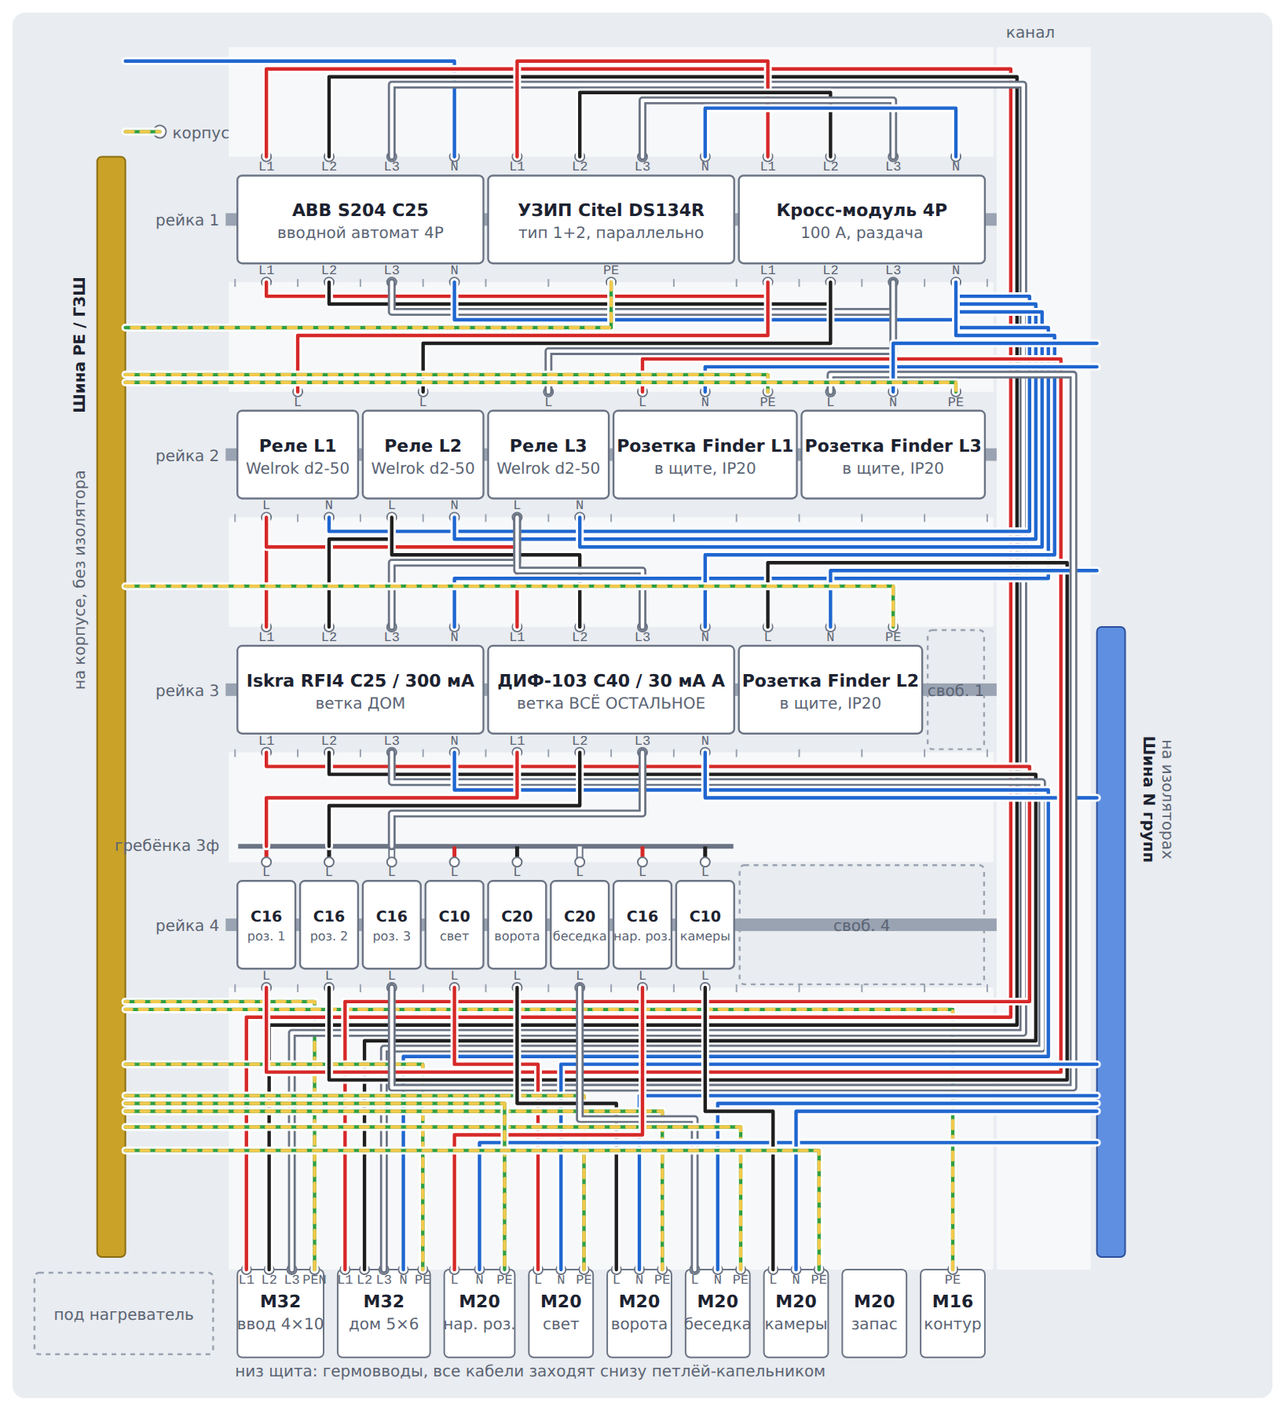
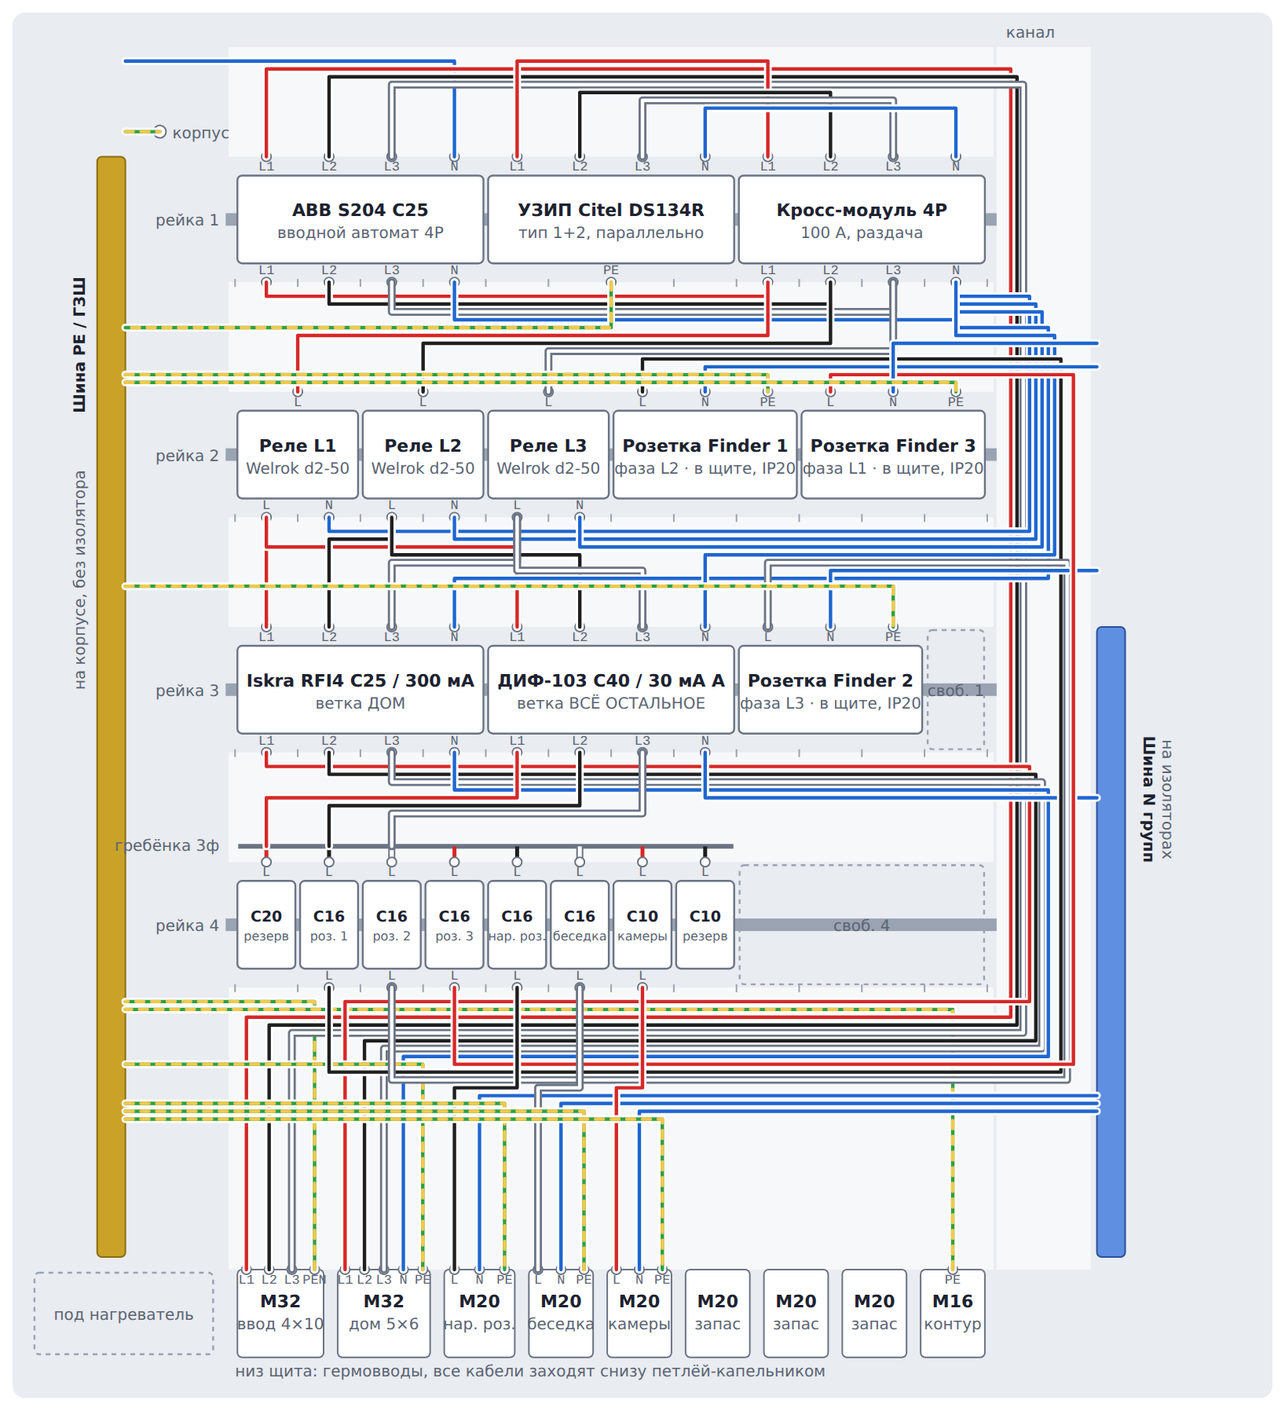
Щит: автоматы по убыванию номинала — C20 резерв, C16 ×5, C10 камеры + резерв; 57 проводов
Claude-Session: https://claude.ai/code/session_014vwwLy1XQxWdD3M4ixQCrA

diff --git a/07-schemas/electrics/panel-layout.html b/07-schemas/electrics/panel-layout.html
@@ -133,8 +133,8 @@
   <ol>
     <li><b>Раскладка по факту (примерка 05.10):</b> рейка 1 — S204, УЗИП, кросс-модуль (12 мод.); рейка 2 — три Welrok по 2 мод. и две Finder по 3 (12); рейка 3 — Iskra, ДИФ-103, Finder (11, 1 свободен); рейка 4 — 8 автоматов (4 свободно). Занято 43 из 48.</li>
     <li><b>Обогрев пока не ставится.</b> Термостат и нагреватель вынуты. Если вернёшь: нагреватель на раму внизу слева (место оставлено), термостат 1 мод. на свободное место рейки 3, его C10 — на рейку 4 после «камер» (тогда он сядет на L3 по гребёнке), гребёнку резать на 9 модулей вместо 8.</li>
-    <li><b>Розетки:</b> три Finder внутри щита, по одной на каждую фазу (на C16 ×3): две на рейке 2 рядом с реле, одна на рейке 3. Плюс влагозащищённая ЭРА IP65 снаружи на корпусе на своём C16. Пятый C16 и лишний кросс-модуль — запас.</li>
-    <li><b>Автоматы:</b> C16 ×4 на три Finder и наружную розетку, C20 ×2 на ворота и беседку, C10 ×2 на свет и камеры. Фаза каждого задана его местом на гребёнке (гребёнка обрезана на 8 модулей): L1 — роз. 1, свет, нар. розетка; L2 — роз. 2, ворота, камеры; L3 — роз. 3, беседка.</li>
+    <li><b>Розетки:</b> три Finder внутри щита, по одной на каждую фазу (на C16 ×3): две на рейке 2 рядом с реле, одна на рейке 3. Плюс влагозащищённая ЭРА IP65 снаружи на корпусе на своём C16. Лишний кросс-модуль — запас.</li>
+    <li><b>Автоматы по убыванию номинала</b> (что куплено: C20 ×1, C16 ×5, C10 ×2): C20 резерв · C16 роз. 1, роз. 2, роз. 3, нар. розетка, беседка · C10 камеры, резерв. Фаза каждого задана местом на гребёнке (обрезана на 8 модулей): L1 — C20 резерв, роз. 3, камеры; L2 — роз. 1, нар. розетка, C10 резерв; L3 — роз. 2, беседка. Беседке C16 хватает (свет и розетки, кабель 3×2,5). Резервные автоматы стоят на гребёнке, но снизу к ним ничего не подключено.</li>
     <li><b>Расщепление PEN одно:</b> жила PEN кабеля 4×10 садится на шину PE, оттуда синяя перемычка 10 мм² на клемму N вводного автомата. Больше N и PE нигде не соединяются.</li>
     <li><b>Шина N групп принимает только нули ветки «остальное»</b> (после ДИФ-103). Нули дома, реле и УЗИП идут на кросс-модуль. Перепутаешь, ДИФ-103 будет выбивать.</li>
     <li><b>УЗИП включён параллельно.</b> Через него ничего не проходит дальше: реле и дифавтоматы питаются с кросс-модуля. Единственный его «выход» на шину PE, туда он сбрасывает импульс.</li>
@@ -169,20 +169,20 @@ const DEV=[
  {id:'R1',rail:1,pos:0,w:2,name:'Реле L1',sub:'Welrok d2-50',top:['L'],bot:['L','N']},
  {id:'R2',rail:1,pos:2,w:2,name:'Реле L2',sub:'Welrok d2-50',top:['L'],bot:['L','N']},
  {id:'R3',rail:1,pos:4,w:2,name:'Реле L3',sub:'Welrok d2-50',top:['L'],bot:['L','N']},
- {id:'FND1',rail:1,pos:6,w:3,name:'Розетка Finder L1',sub:'в щите, IP20',top:['L','N','PE'],bot:[]},
- {id:'FND3',rail:1,pos:9,w:3,name:'Розетка Finder L3',sub:'в щите, IP20',top:['L','N','PE'],bot:[]},
+ {id:'FND1',rail:1,pos:6,w:3,name:'Розетка Finder 1',sub:'фаза L2 · в щите, IP20',top:['L','N','PE'],bot:[]},
+ {id:'FND3',rail:1,pos:9,w:3,name:'Розетка Finder 3',sub:'фаза L1 · в щите, IP20',top:['L','N','PE'],bot:[]},
  {id:'ISK',rail:2,pos:0,w:4,name:'Iskra RFI4 C25 / 300 мА',sub:'ветка ДОМ',top:['L1','L2','L3','N'],bot:['L1','L2','L3','N']},
  {id:'D103',rail:2,pos:4,w:4,name:'ДИФ-103 C40 / 30 мА A',sub:'ветка ВСЁ ОСТАЛЬНОЕ',top:['L1','L2','L3','N'],bot:['L1','L2','L3','N']},
- {id:'FND2',rail:2,pos:8,w:3,name:'Розетка Finder L2',sub:'в щите, IP20',top:['L','N','PE'],bot:[]},
+ {id:'FND2',rail:2,pos:8,w:3,name:'Розетка Finder 2',sub:'фаза L3 · в щите, IP20',top:['L','N','PE'],bot:[]},
  {id:'FREE2',rail:2,pos:11,w:1,free:true},
- {id:'A1',rail:3,pos:0,w:1,name:'C16',sub:'роз. 1',top:['L'],bot:['L']},
- {id:'A2',rail:3,pos:1,w:1,name:'C16',sub:'роз. 2',top:['L'],bot:['L']},
- {id:'A3',rail:3,pos:2,w:1,name:'C16',sub:'роз. 3',top:['L'],bot:['L']},
- {id:'A4',rail:3,pos:3,w:1,name:'C10',sub:'свет',top:['L'],bot:['L']},
- {id:'A5',rail:3,pos:4,w:1,name:'C20',sub:'ворота',top:['L'],bot:['L']},
- {id:'A6',rail:3,pos:5,w:1,name:'C20',sub:'беседка',top:['L'],bot:['L']},
- {id:'A7',rail:3,pos:6,w:1,name:'C16',sub:'нар. роз.',top:['L'],bot:['L']},
- {id:'A9',rail:3,pos:7,w:1,name:'C10',sub:'камеры',top:['L'],bot:['L']},
+ {id:'A0',rail:3,pos:0,w:1,name:'C20',sub:'резерв',top:['L'],bot:[]},
+ {id:'A1',rail:3,pos:1,w:1,name:'C16',sub:'роз. 1',top:['L'],bot:['L']},
+ {id:'A2',rail:3,pos:2,w:1,name:'C16',sub:'роз. 2',top:['L'],bot:['L']},
+ {id:'A3',rail:3,pos:3,w:1,name:'C16',sub:'роз. 3',top:['L'],bot:['L']},
+ {id:'A7',rail:3,pos:4,w:1,name:'C16',sub:'нар. роз.',top:['L'],bot:['L']},
+ {id:'A6',rail:3,pos:5,w:1,name:'C16',sub:'беседка',top:['L'],bot:['L']},
+ {id:'A9',rail:3,pos:6,w:1,name:'C10',sub:'камеры',top:['L'],bot:['L']},
+ {id:'A8',rail:3,pos:7,w:1,name:'C10',sub:'резерв',top:['L'],bot:[]},
  {id:'FREE3',rail:3,pos:8,w:4,free:true},
 ];
 const COMBX=[0,1,2]; // comb feed terminals above A1..A3
@@ -192,11 +192,11 @@ const BOT=[
  {id:'GIN',x:150,w:58,name:'M32',sub:'ввод 4×10',top:['L1','L2','L3','PEN'],kind:'gland'},
  {id:'GHOME',x:214,w:62,name:'M32',sub:'дом 5×6',top:['L1','L2','L3','N','PE'],kind:'gland'},
  {id:'GOUT',x:282,w:48,name:'M20',sub:'нар. роз.',top:['L','N','PE'],kind:'gland'},
- {id:'G4',x:336,w:44,name:'M20',sub:'свет',top:['L','N','PE'],kind:'gland'},
- {id:'G5',x:386,w:44,name:'M20',sub:'ворота',top:['L','N','PE'],kind:'gland'},
- {id:'G6',x:436,w:44,name:'M20',sub:'беседка',top:['L','N','PE'],kind:'gland'},
- {id:'G9',x:486,w:44,name:'M20',sub:'камеры',top:['L','N','PE'],kind:'gland'},
- {id:'GSP',x:536,w:44,name:'M20',sub:'запас',top:[],kind:'gland'},
+ {id:'G6',x:336,w:44,name:'M20',sub:'беседка',top:['L','N','PE'],kind:'gland'},
+ {id:'G9',x:386,w:44,name:'M20',sub:'камеры',top:['L','N','PE'],kind:'gland'},
+ {id:'GSP1',x:436,w:44,name:'M20',sub:'запас',top:[],kind:'gland'},
+ {id:'GSP2',x:486,w:44,name:'M20',sub:'запас',top:[],kind:'gland'},
+ {id:'GSP3',x:536,w:44,name:'M20',sub:'запас',top:[],kind:'gland'},
  {id:'GPE',x:586,w:44,name:'M16',sub:'контур',top:['PE'],kind:'gland'},
 ];
 
@@ -248,7 +248,7 @@ add('D103.bot.L1','COMB.L1','L1','ПуГВ 6',6,'Питание гребёнки
 add('D103.bot.L2','COMB.L2','L2','ПуГВ 6',6,'');
 add('D103.bot.L3','COMB.L3','L3','ПуГВ 6',6,'');
 add('D103.bot.N','NB','N','ПуГВ 6',6,'Единственный вход на шину N групп.');
-const GR=[['A4','G4','L1','ВВГ 3×1,5'],['A5','G5','L2','ВВГ 3×2,5'],['A6','G6','L3','ВВГ 3×2,5'],['A7','GOUT','L1','ВВГ 3×2,5'],['A9','G9','L2','ВВГ 3×1,5']];
+const GR=[['A7','GOUT','L2','ВВГ 3×2,5'],['A6','G6','L3','ВВГ 3×2,5'],['A9','G9','L1','ВВГ 3×1,5']];
 // 8 группы наружу (кабели ВВГ через гермовводы)
 GR.forEach(([a,g,c,sq])=>{
   add(a+'.bot.L',g+'.top.L',c,sq,8,'Фаза этого автомата задана гребёнкой.');
@@ -256,7 +256,7 @@ GR.forEach(([a,g,c,sq])=>{
   add('PE',g+'.top.PE','PE',sq,8,'PE группы на ГЗШ.');
 });
 // 7 розетки в щите
-[['A1','FND1','L1'],['A2','FND2','L2'],['A3','FND3','L3']].forEach(([a,f,c])=>{
+[['A1','FND1','L2'],['A2','FND2','L3'],['A3','FND3','L1']].forEach(([a,f,c])=>{
   add(a+'.bot.L',f+'.top.L',c,'ПуГВ 2,5',7,'Розетка внутри щита на фазе '+c+'. Три розетки нагружают три разные фазы.');
   add('NB',f+'.top.N','N','ПуГВ 2,5',7,'');
   add('PE',f+'.top.PE','PE','ПуГВ 2,5 ж/з',7,'');

diff --git a/07-schemas/electrics/panel.md b/07-schemas/electrics/panel.md
@@ -51,26 +51,26 @@
 
 | Линия | Автомат | Кабель | Фаза |
 |-------|---------|--------|------|
-| Розетка Finder 1 (в щите) | 1P **C16** | ПуГВ 2,5 | L1 |
-| Розетка Finder 2 (в щите) | 1P **C16** | ПуГВ 2,5 | L2 |
-| Розетка Finder 3 (в щите) | 1P **C16** | ПуГВ 2,5 | L3 |
-| Освещение двора | 1P **C10** | ВВГ 3×1,5 | L1 |
-| Ворота (привод) | 1P **C20** | ВВГ 3×2,5 в ПНД | L2 |
-| Беседка | 1P **C20** | ВВГ 3×2,5 в ПНД | L3 |
-| Наружная розетка ЭРА IP65 (на корпусе) | 1P **C16** | ВВГ 3×2,5 | L1 |
-| Камеры (БП/регистратор) | 1P **C10** | ВВГ 3×1,5 | L2 |
+| Резерв (ворота, если будут) | 1P **C20** | — | L1 |
+| Розетка Finder 1 (в щите) | 1P **C16** | ПуГВ 2,5 | L2 |
+| Розетка Finder 2 (в щите) | 1P **C16** | ПуГВ 2,5 | L3 |
+| Розетка Finder 3 (в щите) | 1P **C16** | ПуГВ 2,5 | L1 |
+| Наружная розетка ЭРА IP65 (на корпусе) | 1P **C16** | ВВГ 3×2,5 | L2 |
+| Беседка | 1P **C16** | ВВГ 3×2,5 в ПНД | L3 |
+| Камеры (БП/регистратор) | 1P **C10** | ВВГ 3×1,5 | L1 |
+| Резерв (свет двора, если будет) | 1P **C10** | — | L2 |
 
 > Компромисс: всё остальное под одним 30-мА — утечка в одной линии гасит всю ветку (розетки/ворота/свет/камеры). Для камер поэтому желателен ИБП.
 > Тип **A** (не AC) — обязательно: ловит утечки от техники с электроникой (БП камер, зарядки, инструмент).
 > Цвета проводов внутри щита: **L1 красный, L2 чёрный, L3 белый**, N синий, PE жёлто-зелёный.
-> Порядок на рейке = фаза по гребёнке (8 автоматов, гребёнка обрезана на 8 модулей): L1 — Finder 1, свет, наружная розетка · L2 — Finder 2, ворота, камеры · L3 — Finder 3, беседка.
+> Автоматы на рейке по убыванию номинала: C20, C16 ×5, C10 ×2 (ровно что куплено). Порядок = фаза по гребёнке (обрезана на 8 модулей): L1 — C20 резерв, Finder 3, камеры · L2 — Finder 1, наружная розетка, C10 резерв · L3 — Finder 2, беседка. Резервные автоматы на гребёнке стоят, снизу к ним ничего не подключено.
 > Обогрев щита (термостат + нагреватель) **пока не ставится** — вынут при примерке 05.10. Если вернётся: C10 девятым на рейку 4 (сядет на L3), термостат на свободный модуль рейки 3, нагреватель на раму внизу слева.
 
 ---
 
 ## Монтажная схема (раскладка + провода)
 
-- **[panel-layout.html](panel-layout.html)** — интерактивная: раскладка по рейкам, все 63 провода, фильтры по проводникам (L1/L2/L3/N/PE) и восьми этапам сборки (сдвоенные провода из одной клеммы — в одном этапе), таблица «откуда → куда, сечение». Открывать в браузере (скачать файл или через артефакт в Claude).
+- **[panel-layout.html](panel-layout.html)** — интерактивная: раскладка по рейкам, все 57 проводов, фильтры по проводникам (L1/L2/L3/N/PE) и восьми этапам сборки (сдвоенные провода из одной клеммы — в одном этапе), таблица «откуда → куда, сечение». Открывать в браузере (скачать файл или через артефакт в Claude).
 - **[panel-layout.png](panel-layout.png)** — та же схема картинкой, на печать и на дверцу щита.
 
 ![Монтажная схема щита](panel-layout.png)
@@ -100,14 +100,14 @@
 | Реле напряжения Welrok d2-50 (1ф) | 3 |
 | Дифавтомат Iskra RFI4-C-25/0.3, 4P C25 / 300 мА, селективный, тип A (дом) | 1 |
 | Дифавтомат Dekraft ДИФ-103 3P+N C40 / 30 мА, тип A (всё остальное) | 1 |
-| Автомат ABB S201 1P C16 (3 Finder + наружная розетка; пятый в запасе) | 4 |
-| Автомат ABB S201 1P C20 (ворота, беседка) | 2 |
-| Автомат ABB SH201 1P C10 (свет, камеры) | 2 |
+| Автомат ABB S201 1P C16 (3 Finder, наружная розетка, беседка) | 5 |
+| Автомат ABB S201 1P C20 (резерв) | 1 |
+| Автомат ABB SH201 1P C10 (камеры; второй резерв) | 2 |
 | Розетка наружная ЭРА IP65 2P+E, 16 А (на корпусе) | 1 |
 | Розетки в щит Finder Schuko IP20, по одной на фазу | 3 |
 | Нагреватель UNISPLIT 150 Вт + термостат SILART TBS-140 — куплены, **пока не ставятся** | 1 компл. |
 
-> Finder ×3 и наружная розетка на **C16 ×4**; C20 ×2 на ворота и беседку; C10 ×2 на свет и камеры (камерам лучше **C6**, но C10 рабочий вариант). Welrok по факту 2 модуля — всё влезло.
+> Беседке хватает C16 (свет и розетки, кабель 3×2,5). Камерам лучше **C6**, но C10 рабочий вариант. Welrok по факту 2 модуля — всё влезло. Докупать автоматы не нужно.
 
 **Что ещё купить** → полный чек-лист с галочками: [shopping-list.md](shopping-list.md) (узел ввода, шины, провода по сечениям, наконечники, гермовводы, инструмент).
 

diff --git a/07-schemas/electrics/shopping-list.md b/07-schemas/electrics/shopping-list.md
@@ -19,7 +19,7 @@
 
 - [ ] Дифавтомат Iskra RFI4-C-25/0.3 (дом)
 - [ ] Розетки Finder Schuko IP20 в щит — 3 шт.
-- [ ] ⚠ Автоматы: по схеме (без обогрева) нужно **C10 ×2 и C20 ×2**. Куплено C10 ×2 ✅, C20 ×1 — **докупить один C20** (беседка), если второго нет с прошлых покупок
+- [x] Автоматы: C20 ×1, C16 ×5, C10 ×2 — ровно под схему (C20 и один C10 в резерве), докупать не нужно
 
 ## 1. Узел ввода (СИП → трубостойка → щит)
 
@@ -86,7 +86,7 @@
 ## 6. Гермовводы (метрические, с контргайками)
 
 - [ ] **M32** — 2 шт. (ввод ВВГ 4×10, дом ВВГ 5×6; кабель Ø 17–20 мм)
-- [ ] **M20** — 6 шт. (группы Ø 8–11 мм: свет, ворота, беседка, камеры, наружная розетка + запас)
+- [ ] **M20** — 6 шт. (группы Ø 8–11 мм: наружная розетка, беседка, камеры + 3 запас под будущие линии)
 - [ ] **M16** — 1 шт. (ПуГВ 10 от контура)
 
 ## 7. Маркировка и мелочь
